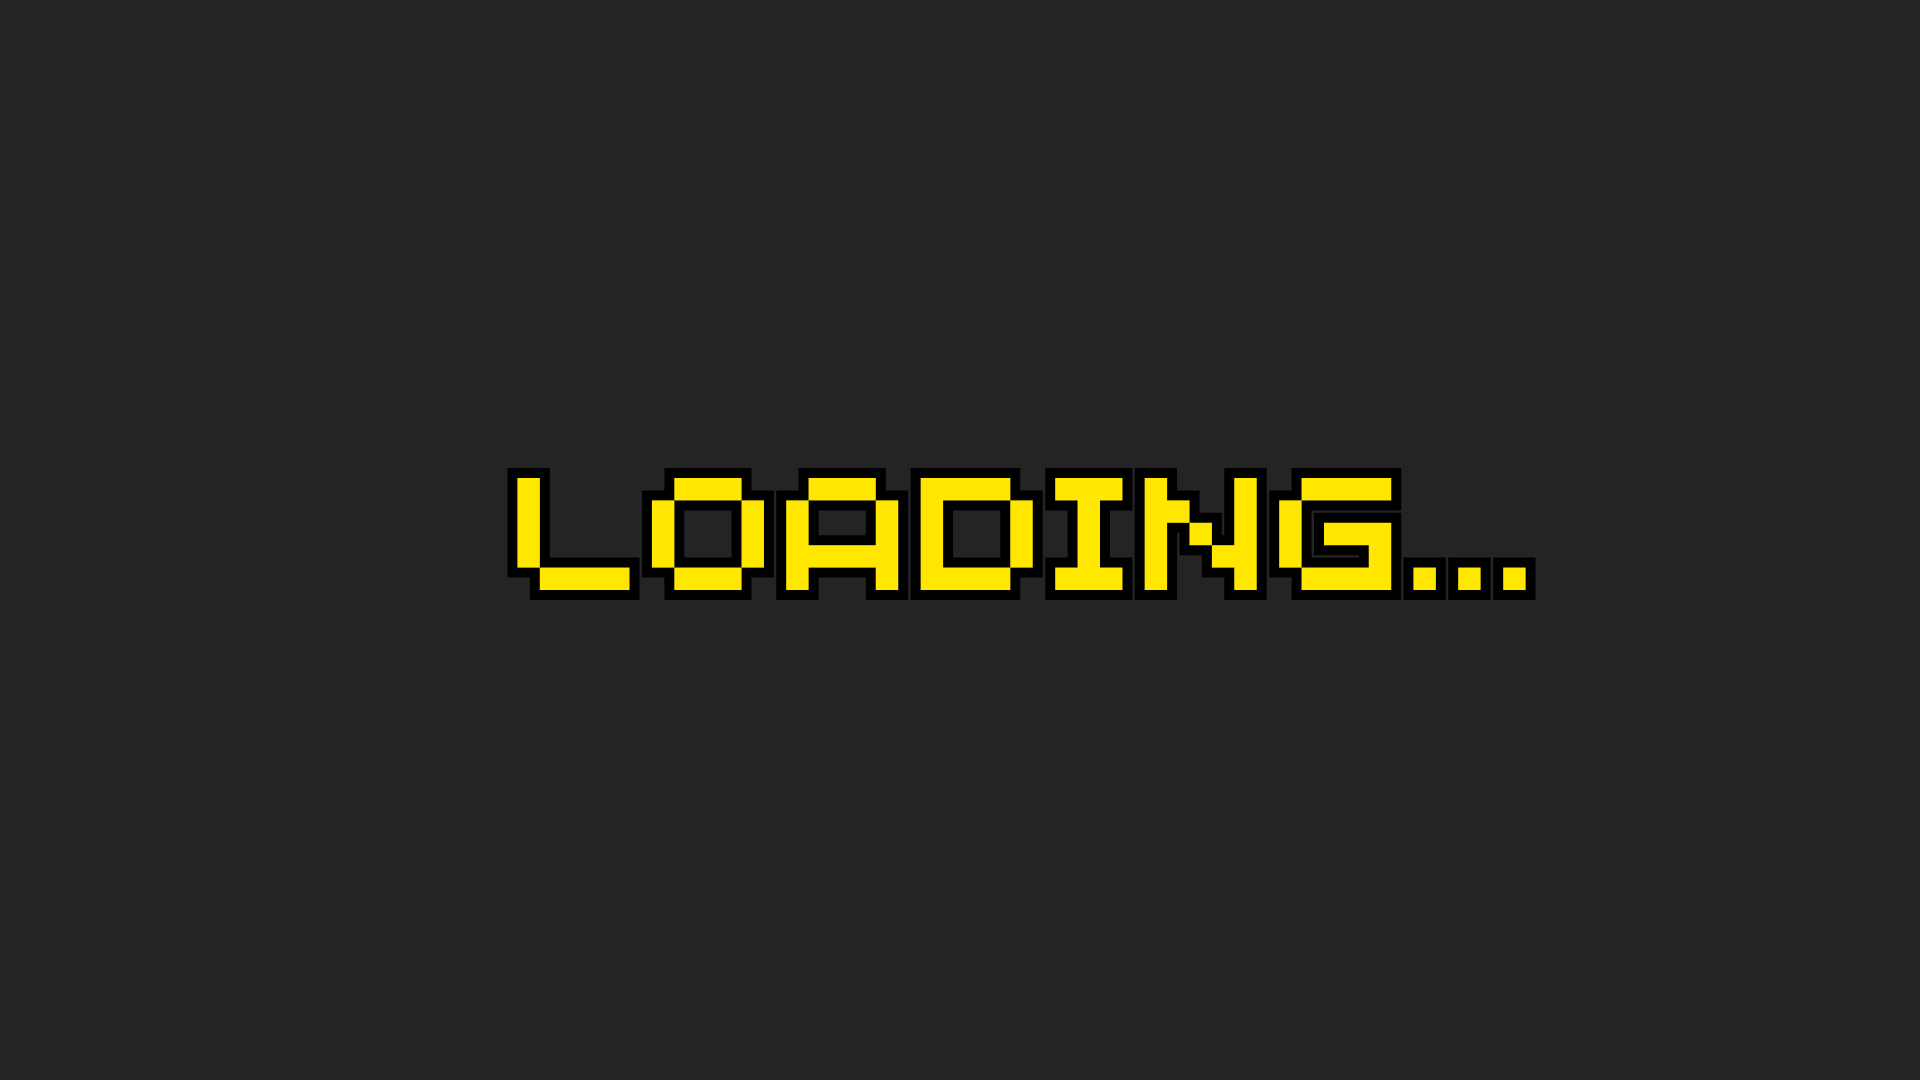
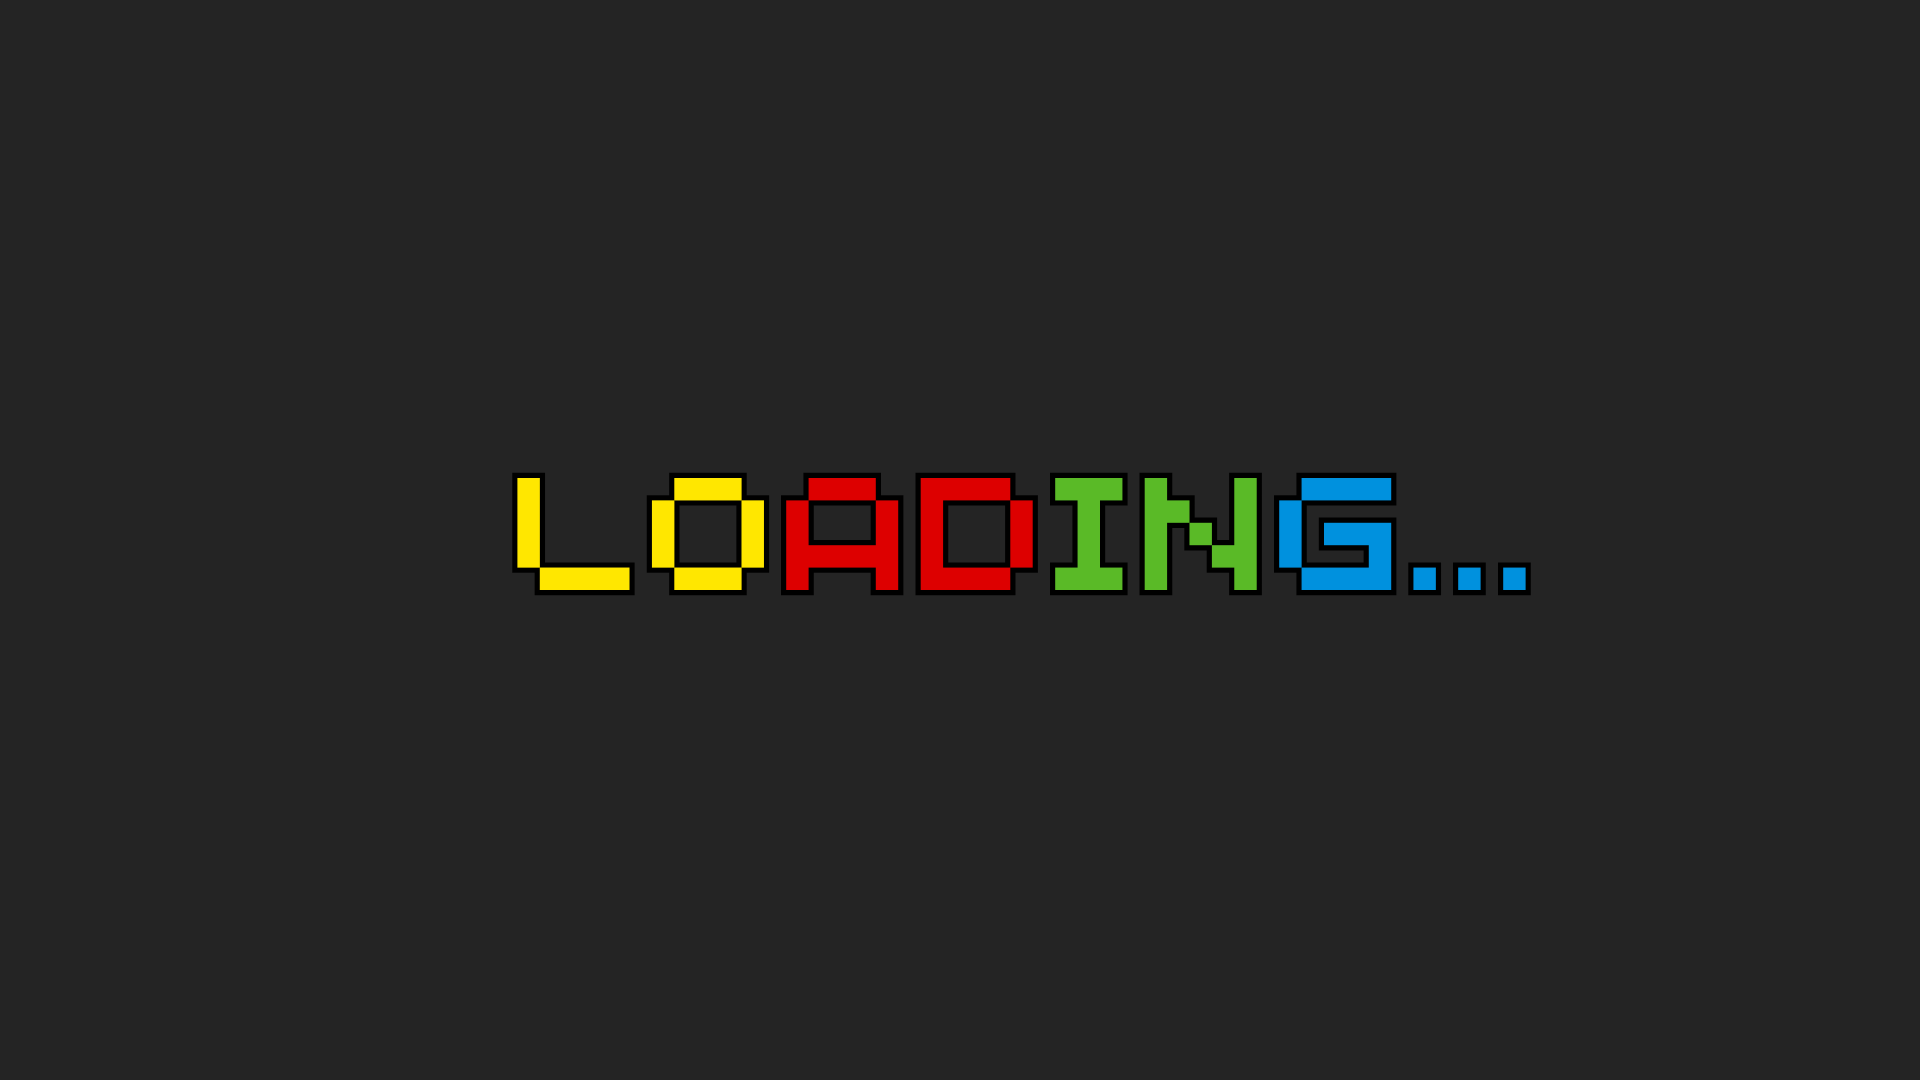
New loading screen. Customizalbe stroke size for defaultFontConfig. Cleanup before switching to end scene.

Changed region(s): [[0.2812, 0.4278, 0.8125, 0.5806], [0.25, 0.5194, 0.2812, 0.55], [0.25, 0.4278, 0.2812, 0.4583]]

diff --git a/web/src/scene/game.ts b/web/src/scene/game.ts
@@ -10,10 +10,10 @@ import CountdownTimer from "../core/timer";
 
 export default class GameScene extends Phaser.Scene {
 	private player!: Player;
-
 	private playerBinCategory!: TrashCategory;
 	private trashManager!: TrashesManager;
 	private countdownTimer!: CountdownTimer;
+	private music!: Phaser.Sound.BaseSound;
 
 	private cursor?: Phaser.Types.Input.Keyboard.CursorKeys;
 
@@ -114,6 +114,15 @@ export default class GameScene extends Phaser.Scene {
 		new Grass(this);
 	}
 
+	private createMusic(): void {
+		this.music = this.sound.add("music");
+
+		this.music.play({
+			loop: true,
+			seek: 68,
+		});
+	}
+
 	private createTrashManager(): void {
 		this.trashManager = new TrashesManager(this, this.playerBinCategory);
 
@@ -124,11 +133,7 @@ export default class GameScene extends Phaser.Scene {
 
 	create(): void {
 		this.createEnvironment();
-
-		this.sound.add("music").play({
-			loop: true,
-			seek: 68,
-		});
+		this.createMusic();
 
 		this.cursor = this.input.keyboard?.createCursorKeys();
 
@@ -153,6 +158,12 @@ export default class GameScene extends Phaser.Scene {
 
 	private timerUpdate(): void {
 		if (this.countdownTimer.isFinish()) {
+			this.music.destroy();
+			this.player.destroy();
+
+			this.trashManager.setSpawnable(false);
+			this.trashManager.clear();
+
 			this.scene.start("end", { playerScore: this.player.getScore() });
 		}
 	}

diff --git a/web/src/core/trashes-manager.ts b/web/src/core/trashes-manager.ts
@@ -5,6 +5,7 @@ export default class TrashesManager {
 	private trahse: Array<Trash> = [];
 	private scene!: Phaser.Scene;
 	private playerBinCategory!: TrashCategory;
+	private spawnable: boolean = true;
 
 	constructor(scene: Phaser.Scene, playerBinCategory: TrashCategory) {
 		this.scene = scene;
@@ -12,7 +13,9 @@ export default class TrashesManager {
 	}	
 
 	spawn(): void {
-		this.trahse.push(new Trash(this.scene, this.playerBinCategory));
+		if (this.spawnable) {
+			this.trahse.push(new Trash(this.scene, this.playerBinCategory));
+		}
 	}
 
 	getTrashes(): Array<Trash> {
@@ -28,6 +31,16 @@ export default class TrashesManager {
 				return false;
 			}
 			return true;
+		});
+	}
+
+	setSpawnable(value: boolean): void {
+		this.spawnable = value;
+	}
+
+	clear(): void {
+		this.trahse.forEach((trash: Trash) => {
+			trash.remove();
 		});
 	}
 }

diff --git a/web/src/core/common.ts b/web/src/core/common.ts
@@ -6,7 +6,8 @@ export function randomPosX(y?: number): [number, number] {
 
 export function defaultFontConfig(
 	size?: string,
-	color?: string
+	color?: string,
+	stroke?: number,
 ): Phaser.Types.GameObjects.Text.TextStyle {
 	return {
 		fontFamily: "pixelArt",
@@ -14,6 +15,6 @@ export function defaultFontConfig(
 		stroke: "#000000",
 		color: color ?? "#FFFFFF",
 		align: "center",
-		strokeThickness: 6,
+		strokeThickness: stroke ?? 6,
 	};
 }

diff --git a/web/src/scene/end.ts b/web/src/scene/end.ts
@@ -20,8 +20,8 @@ export default class EndScene extends Phaser.Scene {
 		this.add.text(
 			this.scale.width / 2,
 			this.scale.height / 2,
-			`Total Score ${this.playerScore}`,
-			defaultFontConfig("108px")
+			`Total Score: ${this.playerScore}`,
+			defaultFontConfig("108px", "#ffe700", 12)
 		).setOrigin(0.5, 0.5);
 	}
 

diff --git a/web/src/sprites/player.ts b/web/src/sprites/player.ts
@@ -170,7 +170,7 @@ export class Player extends Phaser.Physics.Arcade.Sprite {
 				this.spawnScoredAnimation(isScored);
 
 				if (isScored) {
-					this.scoredAudio.play({ volume: 0.5 });
+					this.scoredAudio.play({ volume: 0.2 });
 				}
 
 				trash.setAlive(false);

diff --git a/web/src/scene/menu.ts b/web/src/scene/menu.ts
@@ -26,6 +26,7 @@ export default class MenuScene extends Phaser.Scene {
 	preload(): void {
 		this.load.image("background", this.categoryToBackgroundPath());
 		this.load.image("loadingScreen", config.path.menu.loadingScreen);
+
 	}
 
 	create(): void {
